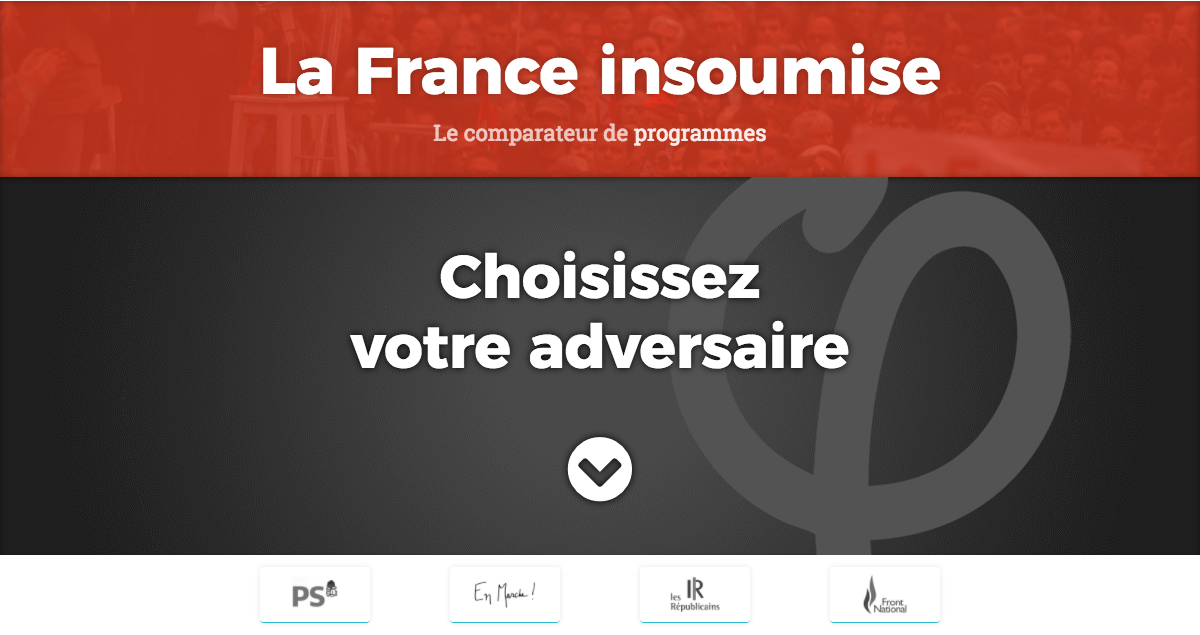
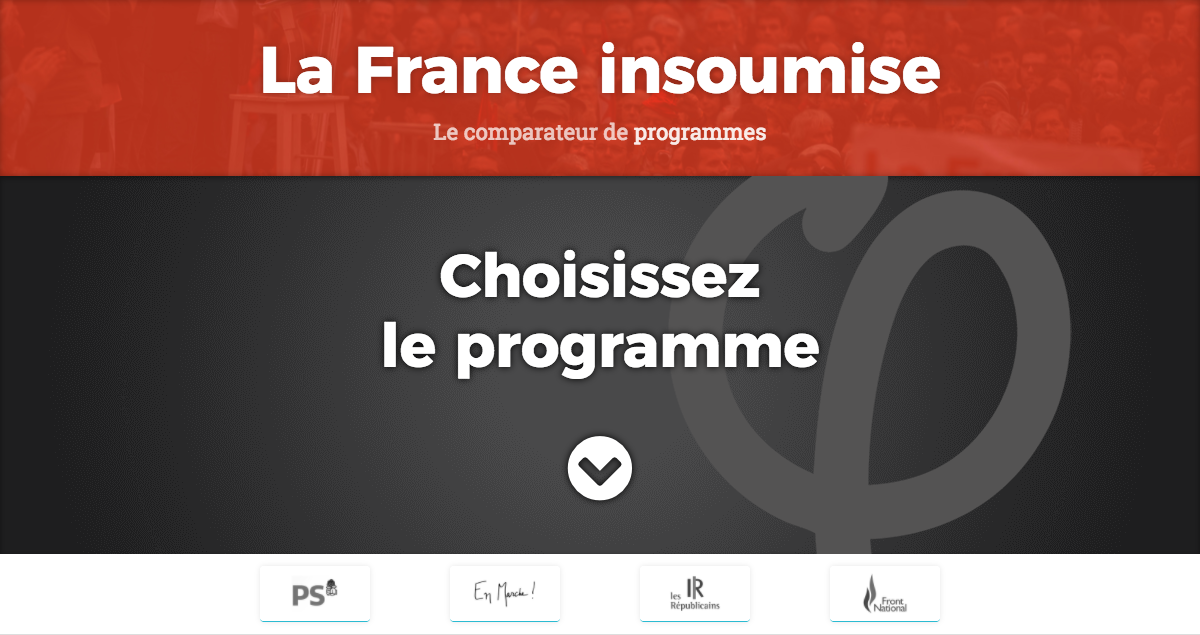
fix mobile

diff --git a/templates/Nav.js b/templates/Nav.js
@@ -21,6 +21,11 @@ class Nav extends Component {
   }
 
   render() {
+    let touchDevice;
+    if (typeof window == 'object') {
+      touchDevice = 'ontouchstart' in window || navigator.msMaxTouchPoints;
+    }
+
     return (
       <div>
         <Hidden sm xs>
@@ -35,7 +40,7 @@ class Nav extends Component {
                 <Link
                   activeClassName="active"
                   className="ps"
-                  onMouseOver={() => this.setState({ versus: 'hamon' })}
+                  onMouseOver={(!touchDevice) ? () => this.setState({ versus: 'hamon' }) : false}
                   onMouseOut={() => this.setState({ versus: null })}
                   to={prefixLink('/versus/parti-socialiste/')}
                 >Parti Socialiste</Link>
@@ -44,7 +49,7 @@ class Nav extends Component {
                 <Link
                   activeClassName="active"
                   className="em"
-                  onMouseOver={() => this.setState({ versus: 'macron' })}
+                  onMouseOver={(!touchDevice) ? () => this.setState({ versus: 'macron' }) : false}
                   onMouseOut={() => this.setState({ versus: null })}
                   to={prefixLink('/versus/en-marche/')}
                 >En Marche</Link>
@@ -53,7 +58,7 @@ class Nav extends Component {
                 <Link
                   activeClassName="active"
                   className="lr"
-                  onMouseOver={() => this.setState({ versus: 'fillon' })}
+                  onMouseOver={(!touchDevice) ? () => this.setState({ versus: 'fillon' }) : false}
                   onMouseOut={() => this.setState({ versus: null })}
                   to={prefixLink('/versus/les-republicains/')}
                 >Les Républicains</Link>
@@ -62,7 +67,7 @@ class Nav extends Component {
                 <Link
                   activeClassName="active"
                   className="fn"
-                  onMouseOver={() => this.setState({ versus: 'lepen' })}
+                  onMouseOver={(!touchDevice) ? () => this.setState({ versus: 'lepen' }) : false}
                   onMouseOut={() => this.setState({ versus: null })}
                   to={prefixLink('/versus/front-national/')}
                 >Front National</Link>

diff --git a/templates/HomeSelector.js b/templates/HomeSelector.js
@@ -15,7 +15,7 @@ const HomeSelector = ({ selected }) => (
     <Container className="container">
       <Row className={`default${(!selected) ? ' visible' : ''}`}>
         Choisissez<br/>
-        votre adversaire<br />
+        le programme<br />
         <i className="fa fa-chevron-circle-down" aria-hidden="true"></i>
       </Row>
       <Row className={`versus${(selected) ? ' visible' : ''}`}>

diff --git a/templates/Topic.scss b/templates/Topic.scss
@@ -14,10 +14,11 @@
       content: '';
       display: block;
       height: 1px;
+      left: 15px;
       opacity: .15;
       position: absolute;
       top: 25px;
-      width: 100%;
+      width: calc(100% - 30px);
       z-index: -1;
     }
 

diff --git a/templates/VersusStickyHeader.scss b/templates/VersusStickyHeader.scss
@@ -56,7 +56,8 @@
     bottom: -38px;
     color: #fff;
     height: 30px;
-    right: -30px;
+    right: -10px;
+    padding: 0;
     position: absolute;
     width: 30px;
   }

diff --git a/templates/Menu.scss b/templates/Menu.scss
@@ -22,6 +22,7 @@
     color: #fff;
     font-size: 20px;
     height: 42px;
+    padding: 0;
     position: absolute;
     right: -40px;
     top: -1px;
